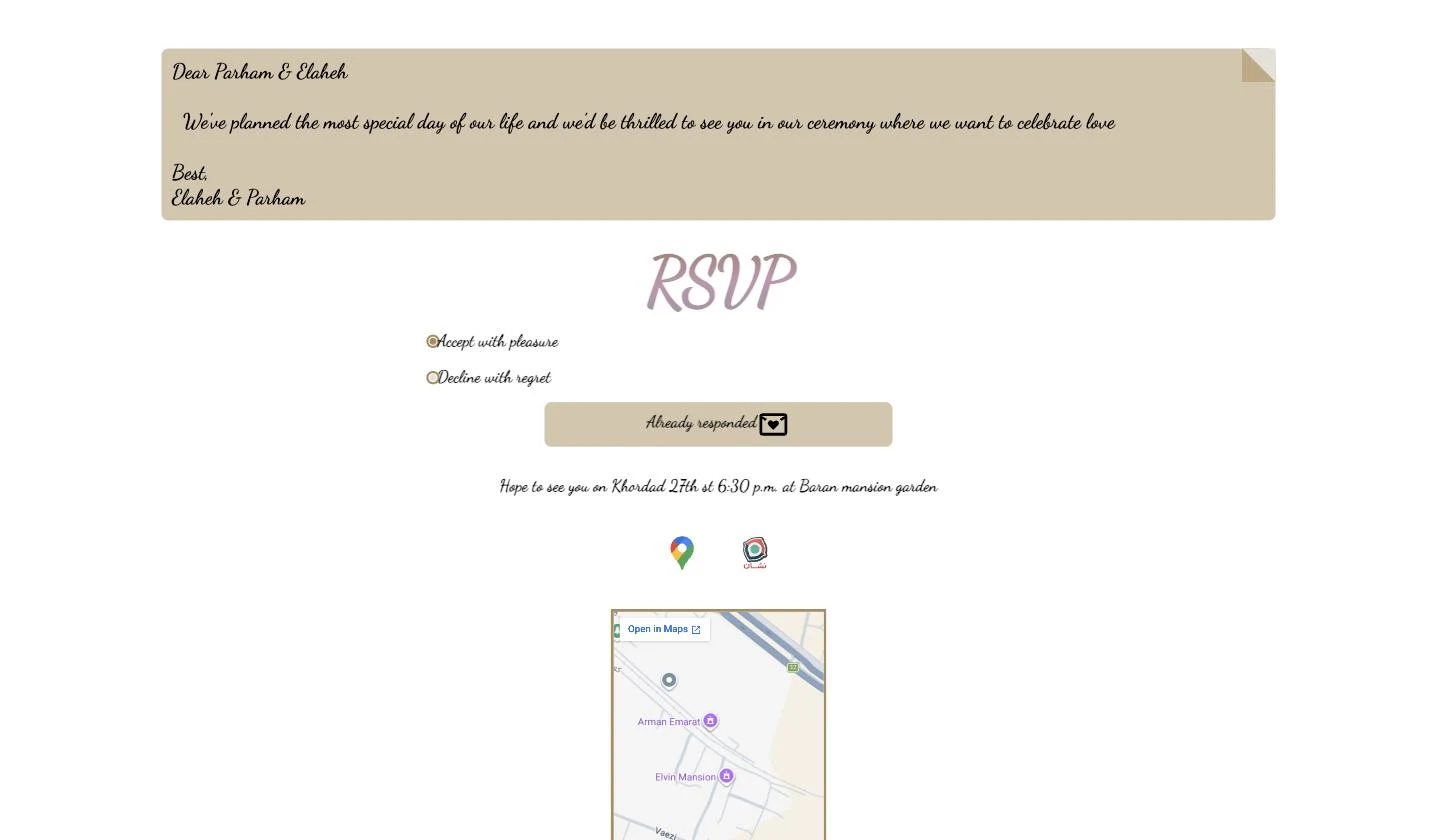
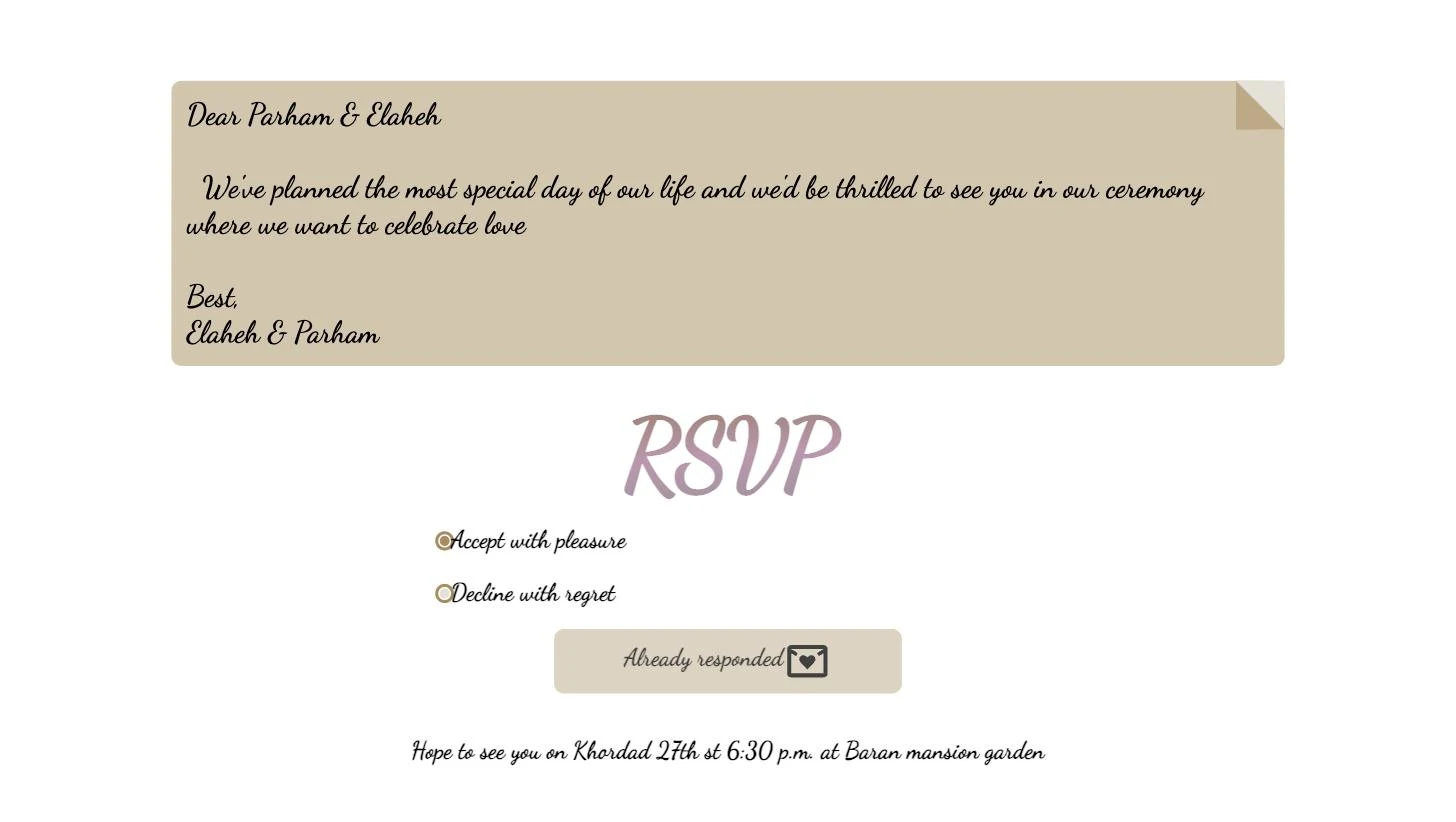
docs: re-shoot screenshots against the current build
All nine images recaptured at a 1456px viewport after the refactor, plus
a new one for the footer that is now wired into the layout.

The two ceremony shots are reframed so the venue text and its map fit in
one frame, and the guest pages are captured in both states: the open RSVP
form and the locked "Already responded" one.

Still no guest names: the RSVP pages use a throwaway record carrying our
own names, and the list TUI runs against a synthetic demo database.

diff --git a/README.md b/README.md
@@ -37,6 +37,12 @@ they answer, the choice is locked in:
 | :---------------------------------------------------------: | :-----------------------------------------------------------: |
 | <img alt="Guest RSVP form" src="docs/screenshots/guest-rsvp.webp" width="420"> | <img alt="Guest already responded" src="docs/screenshots/guest-answered.webp" width="420"> |
 
+Every page closes with the couple's links:
+
+<div align="center">
+  <img alt="Footer" src="docs/screenshots/footer.webp" width="700">
+</div>
+
 Guests are managed from the terminal — two Bubble Tea TUIs for browsing and
 adding people one at a time, and a CSV importer for a whole list at once:
 
